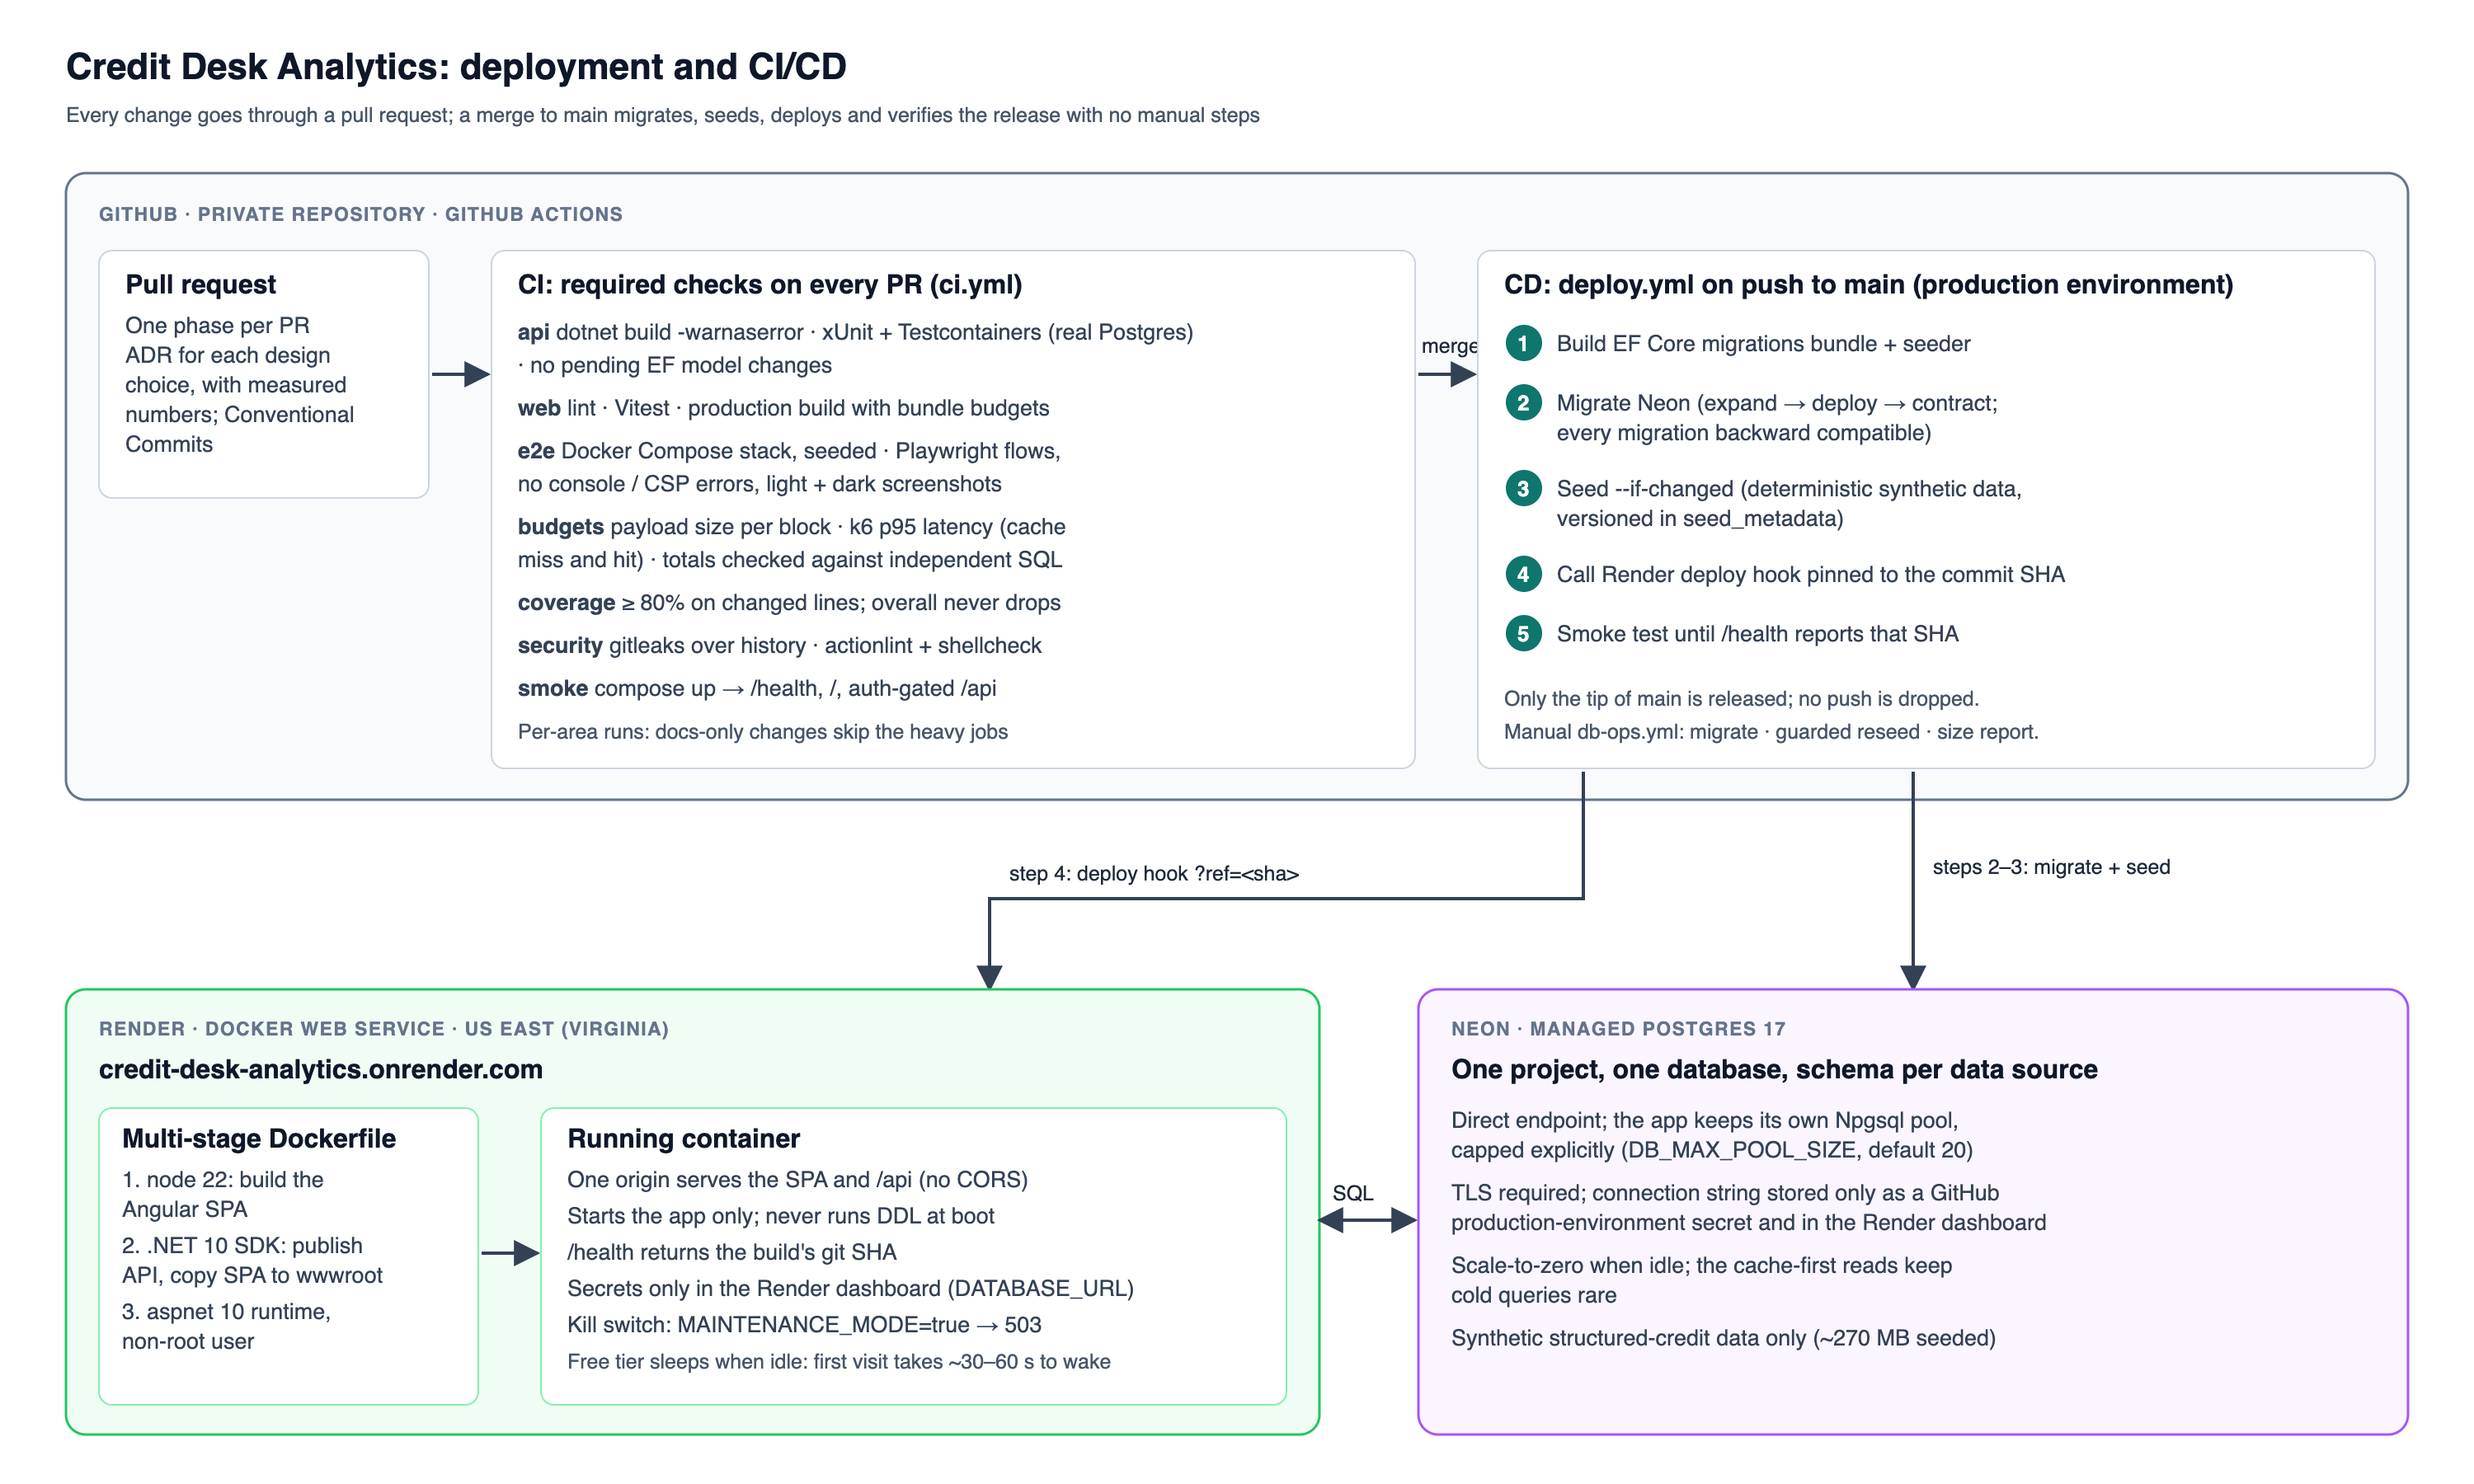
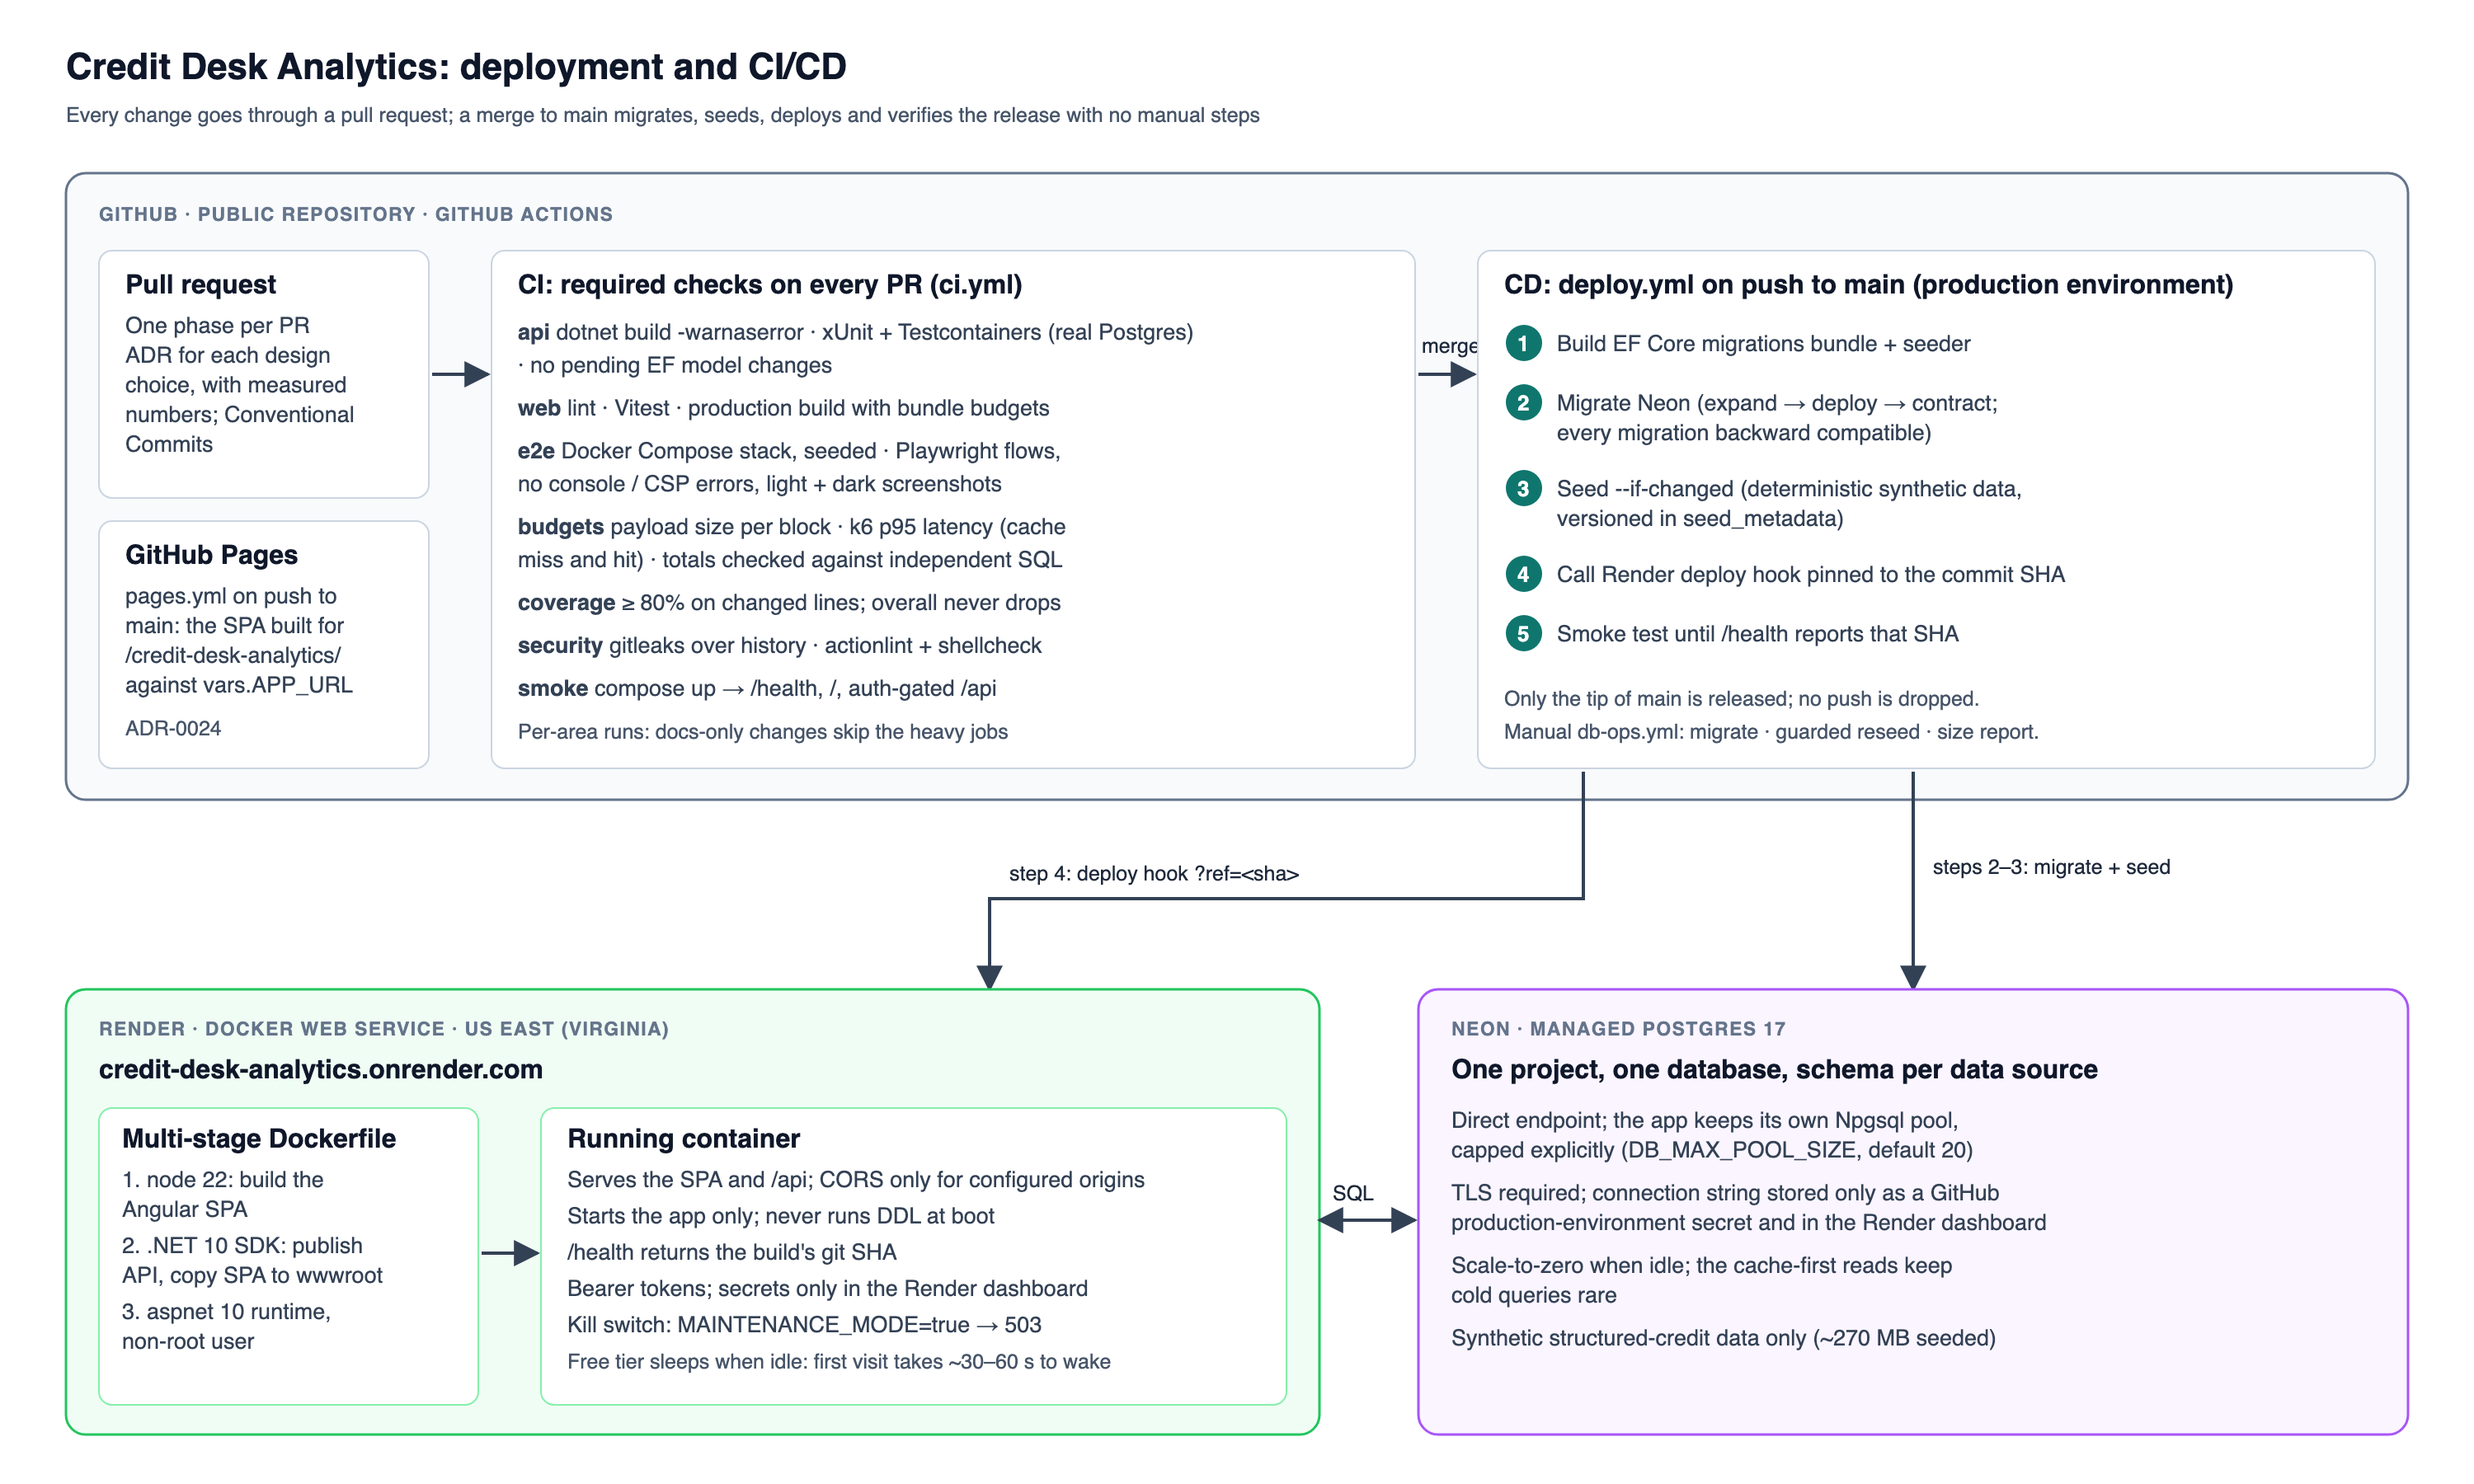
docs: architecture diagrams show the public repo, Pages and live P2–P4 pages (#336) (#409)
deployment.svg: public repository, the pages.yml GitHub Pages deploy, and
CORS + bearer tokens on the container. service-architecture.svg: fund
performance, insights and deals drawn as live with their endpoints, the
Pages front end, and the current pipeline order (CORS, maintenance,
bearer auth + session limits, rate limiter, audit). PNGs re-rendered with
the new docs/architecture/render.mjs, named in README §2.

diff --git a/README.md b/README.md
@@ -99,7 +99,7 @@ flowchart LR
   API -- "per-source queries in parallel" --> MKT & SURV & PRC & REF
 ```
 
-Rendered diagrams for readers without repo access: [service architecture](docs/architecture/service-architecture.png) and [deployment and CI/CD](docs/architecture/deployment.png) (SVG sources alongside, in `docs/architecture/`).
+Rendered diagrams, for sharing outside GitHub: [service architecture](docs/architecture/service-architecture.png) and [deployment and CI/CD](docs/architecture/deployment.png). The SVG sources sit alongside in `docs/architecture/`; re-render the PNGs after editing one with `node docs/architecture/render.mjs` (Playwright Chromium from `e2e/`, 2×).
 
 **Key decisions (each one gets an ADR, see §15):**
 
